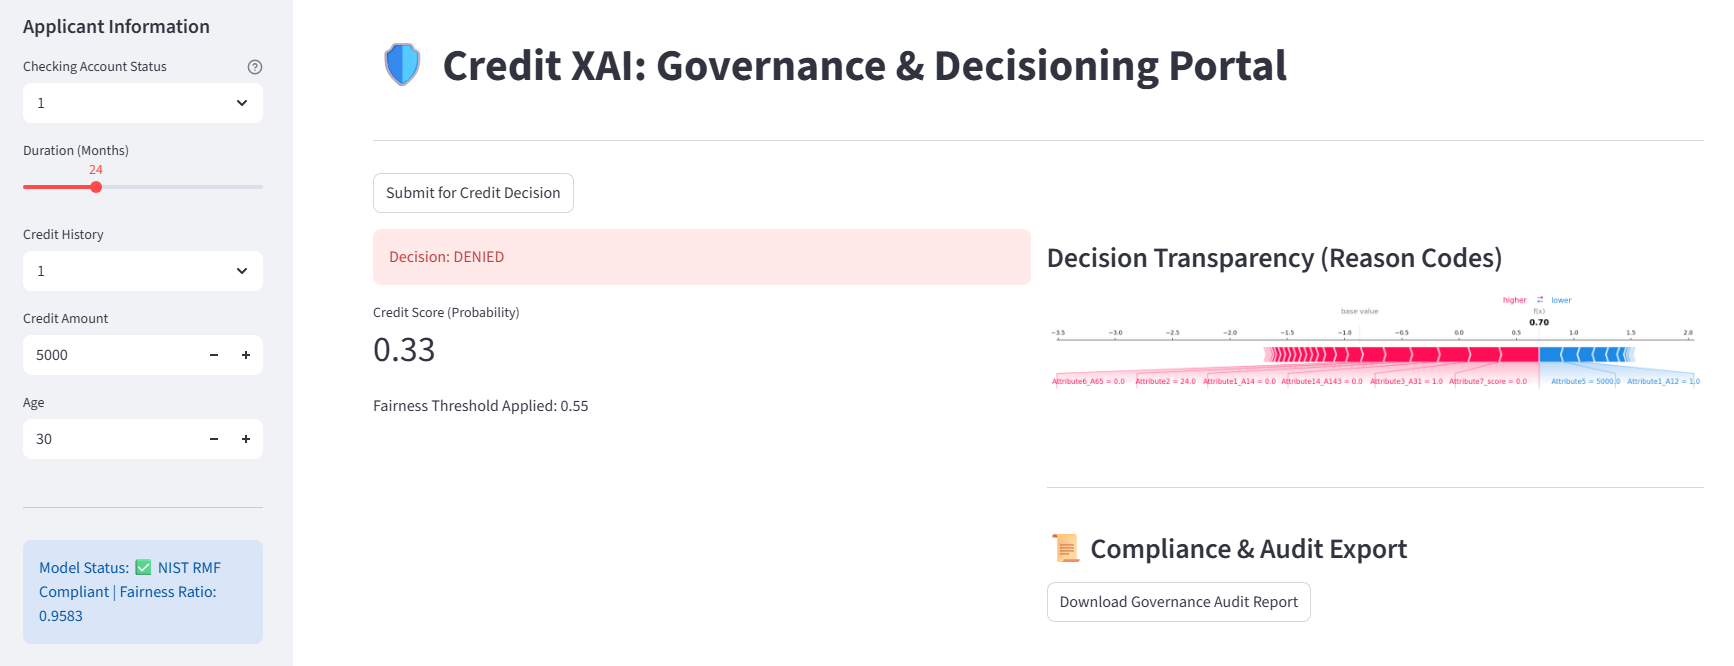
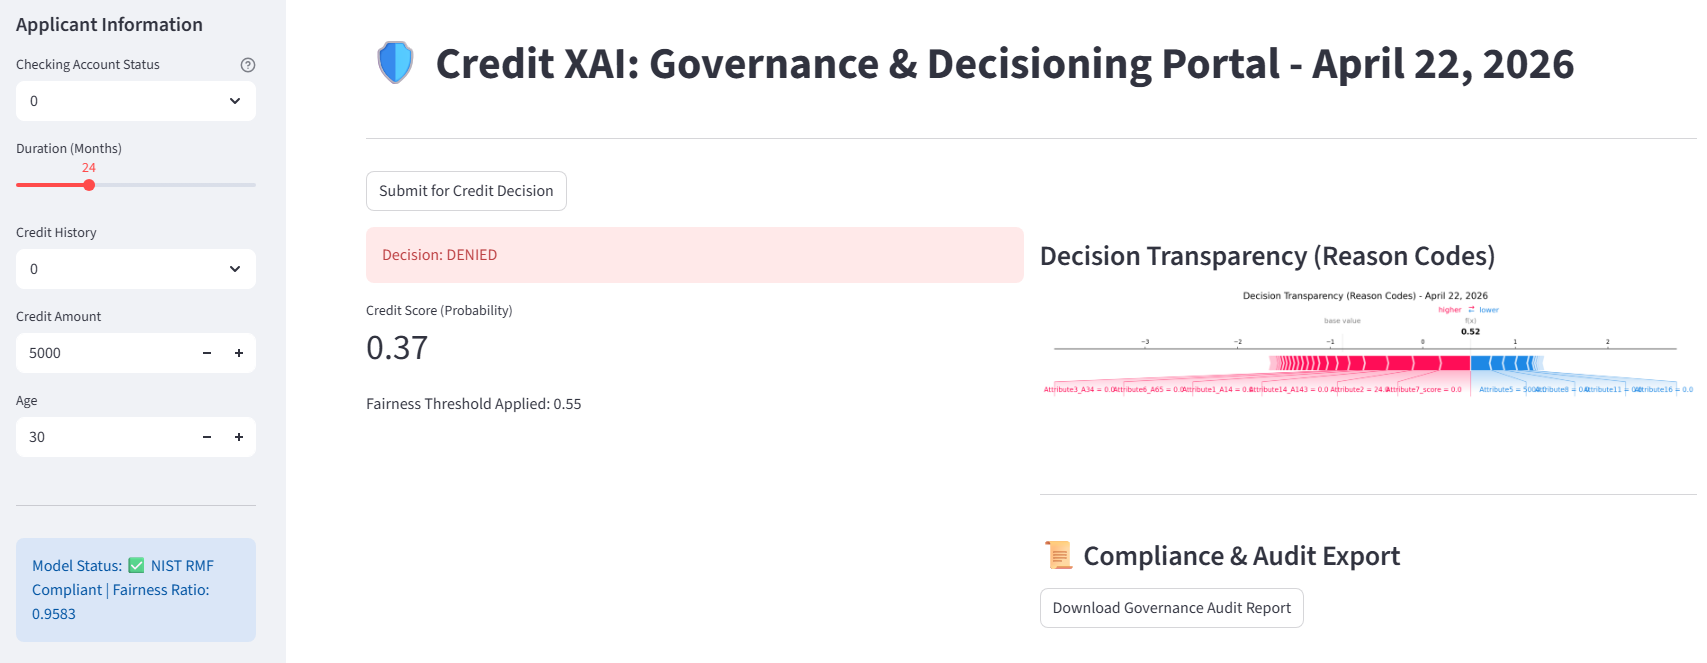
Update documents as of 22nd Apr

diff --git a/README.md b/README.md
@@ -59,6 +59,9 @@ To ensure data integrity and a clear audit trail, we utilize a Medallion Archite
 
 ![Decision Transparency (Reason Codes)](reports/Decision-Transparency-Reason-Codes.png)
 
+![Credit XAI Governance Audit Report](reports/Credit-XAI-Governance-Audit-Report.png)
+
+
 ## � Project Folder Structure
 
 This repository is organized to support data ingestion, model training, explainability, and governance auditing.
